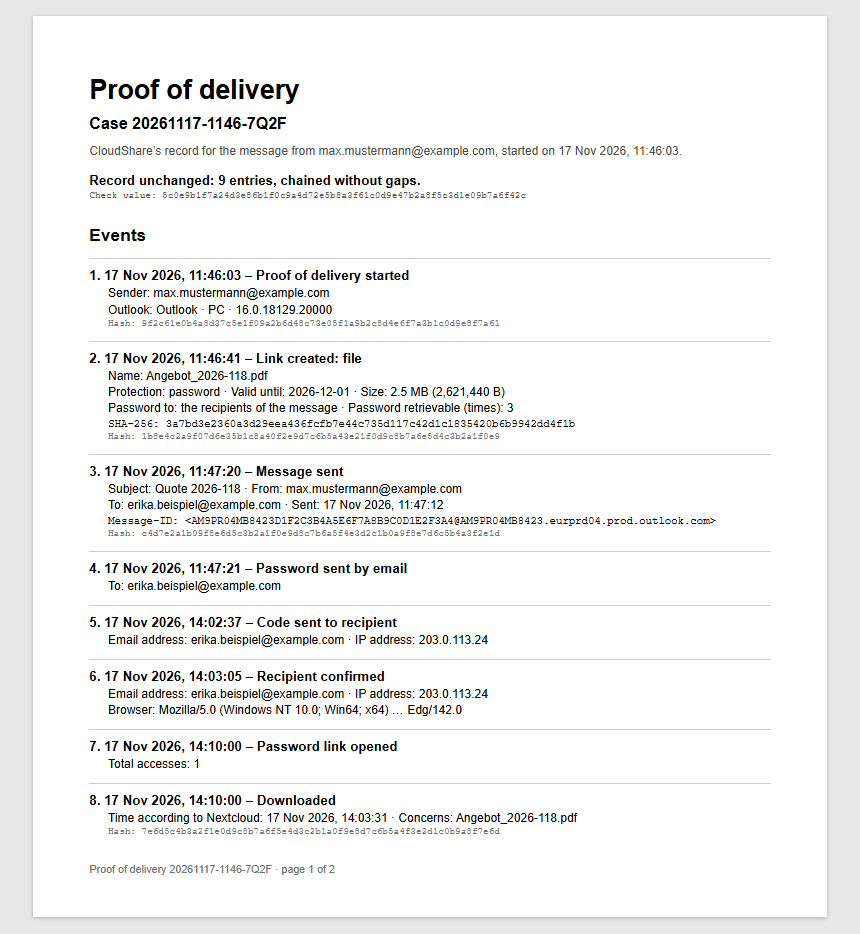
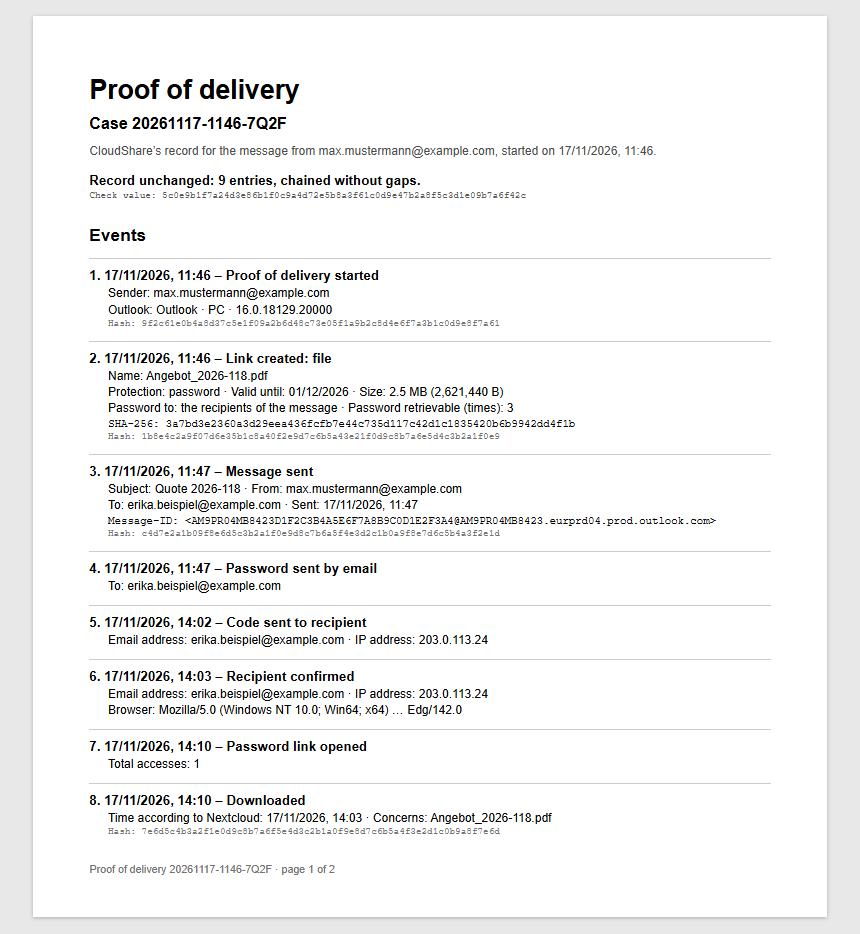
Compact history rows; dates always dd.mm.yyyy, times "HH:MM Uhr"
- "Verlauf": the delivery proof is a small seal after the file name (tracking
  ID in its tooltip, a click opens the PDF) instead of a line and a button;
  the password line names only the way (address and SMS state in the
  tooltip); the download state in one line.
- Every date in pane, cards, mails and PDF as dd.mm.yyyy, every time as
  "HH:MM Uhr" (en: dd/mm/yyyy, HH:MM); the PDF's "valid until" too.

diff --git a/addin/src/taskpane/taskpane.ts b/addin/src/taskpane/taskpane.ts
@@ -1105,7 +1105,9 @@ function settingsProblem(kind: "file" | "request" | "message"): string | null {
   return null;
 }
 
-const formatDate = (isoDate: string) => new Date(isoDate).toLocaleDateString(locale());
+/** Every date in the pane and the cards: day and month with two digits and the full year ("02.12.2026"). */
+const DATE_FORMAT = { day: "2-digit", month: "2-digit", year: "numeric" } as const;
+const formatDate = (when: string | number) => new Date(when).toLocaleDateString(locale(), DATE_FORMAT);
 
 /** Empty paragraph after an inserted card, so the cursor ends up below it (see insertIntoBody). */
 const AFTER_CARD = "<p style=\"margin:0;\"><br></p>";
@@ -1999,6 +2001,16 @@ interface ShareItem {
 }
 
 /** "Kennwort per SMS an +49 170 •••• 78 – zugestellt am 16.11.2026, 14:05" for the "Verlauf" list. */
+/** The way in a few words for the line ("Kennwort per Mail", "Kennwort per SMS – zugestellt"); the rest in the tooltip. */
+function passwordShort(p: NonNullable<ShareItem["password"]>): string {
+  if (p.channel === "mail") return t("shares.passwordMailShort");
+  const status =
+    p.status === "delivered" ? t("shares.smsDelivered")
+    : p.status === "failed" ? t(p.refused ? "shares.smsFailed" : "shares.smsUndelivered")
+    : t("shares.smsSubmitted");
+  return t("shares.passwordSmsShort", { status });
+}
+
 function passwordText(p: NonNullable<ShareItem["password"]>): string {
   if (p.channel === "mail") return t("shares.passwordMail", { to: p.to });
   const status =
@@ -2066,7 +2078,7 @@ async function openSentMail(share: ShareItem) {
 function formatDateTime(when: string | number): string {
   const d = new Date(when);
   return t("shares.dateTime", {
-    date: d.toLocaleDateString(locale(), { day: "2-digit", month: "2-digit", year: "numeric" }),
+    date: d.toLocaleDateString(locale(), DATE_FORMAT),
     time: d.toLocaleTimeString(locale(), { hour: "2-digit", minute: "2-digit" }),
   });
 }
@@ -2106,9 +2118,8 @@ const isValid = (share: ShareItem) => share.expiration === null || share.expirat
 /** Start of a link's period, without the year if it ends in the same year: "15.11." (de) / "15/11" (en-GB). */
 function shortDate(sharedAt: number, expiration: string): string {
   const from = new Date(sharedAt);
-  return from.getFullYear() === Number(expiration.slice(0, 4))
-    ? from.toLocaleDateString(locale(), { day: "2-digit", month: "2-digit" })
-    : from.toLocaleDateString(locale());
+  void expiration; // always with the year now (dd.mm.yyyy)
+  return formatDate(from.getTime());
 }
 
 /** Copies text; the async clipboard API is not available in every Outlook version. */
@@ -2315,12 +2326,10 @@ function shareRow(share: ShareItem): HTMLElement {
     `<button type="button" class="btn btn-subtle btn-icon copy">${ICONS.copy}</button>` +
     `<button type="button" class="btn btn-subtle btn-icon show-password" aria-expanded="false" hidden>${ICONS.password}</button>` +
     `<button type="button" class="btn btn-subtle btn-icon insert">${ICONS.insert}</button>` +
-    `<button type="button" class="btn btn-subtle btn-icon proof" hidden>${ICONS.proof}</button>` +
     `<button type="button" class="btn btn-subtle btn-icon btn-danger revoke">${ICONS.revoke}</button>` +
     `</div></div>` +
     `<div class="share-meta"><span class="share-period"></span> · <span class="share-password"></span></div>` +
     `<div class="share-meta share-unsent" hidden></div>` +
-    `<div class="share-meta share-proof" hidden></div>` +
     `<div class="share-state${state.done ? " done" : ""}">` +
     `<span class="dot-state" aria-hidden="true"></span><span class="state-text"></span></div>` +
     `<div class="password-panel" hidden></div></div>`;
@@ -2331,16 +2340,6 @@ function shareRow(share: ShareItem): HTMLElement {
   label(row.querySelector<HTMLButtonElement>(".copy")!, t("shares.copyLabel"));
   label(row.querySelector<HTMLButtonElement>(".insert")!, t("shares.insertLabel"));
   label(row.querySelector<HTMLButtonElement>(".revoke")!, t("shares.revokeLabel"));
-  // "Zustellnachweis": the tracking ID below the period, and "Nachweis" opens the PDF in the default browser.
-  if (share.proofId) {
-    const proofLine = row.querySelector<HTMLElement>(".share-proof")!;
-    proofLine.textContent = t("shares.proofLine", { id: share.proofId });
-    proofLine.hidden = false;
-    const proofButton = row.querySelector<HTMLButtonElement>(".proof")!;
-    label(proofButton, t("shares.proofLabel", { id: share.proofId }));
-    proofButton.hidden = false;
-    proofButton.addEventListener("click", () => void openProof(share.proofId!, proofButton));
-  }
   // Too long for the line: shortened in the middle ("cloudshare-icon-va…nten.png"), so the extension stays visible.
   const [start, end] = nameParts(share.name);
   const nameStart = document.createElement("span");
@@ -2389,22 +2388,33 @@ function shareRow(share: ShareItem): HTMLElement {
     } else {
       item.textContent = t(`shares.kind.${share.kind}`);
     }
+    // "Zustellnachweis": a small seal after it – the tracking ID in its tooltip, a click opens the PDF ("Nachweis").
+    if (share.proofId) {
+      const seal = document.createElement("button");
+      seal.type = "button";
+      seal.className = "btn btn-subtle btn-icon proof-seal";
+      seal.innerHTML = ICONS.proof;
+      label(seal, t("shares.proofLabel", { id: share.proofId }));
+      seal.addEventListener("click", () => void openProof(share.proofId!, seal));
+      item.append(seal);
+    }
     row.querySelector(".share-head")!.after(item);
   }
 
   // "15.11. – 29.11.2026 · Kennwort per SMS an +49 170 •••• 72 – übermittelt": the word "Kennwort" only once.
   const period = row.querySelector<HTMLElement>(".share-period")!;
-  const sharedOn = new Date(share.sharedAt).toLocaleDateString(locale());
+  const sharedOn = formatDate(share.sharedAt);
   period.textContent = share.expiration
-    ? t("shares.period", { from: shortDate(share.sharedAt, share.expiration), until: formatDate(share.expiration) })
+    ? t("shares.period", { from: shortDate(share.sharedAt, share.expiration), until: formatDate(`${share.expiration}T12:00:00`) })
     : t("shares.since", { from: sharedOn });
   period.title = [t("shares.sharedOn", { date: sharedOn }), share.expiration ? t("shares.validUntil", { date: formatDate(share.expiration) }) : ""]
     .filter(Boolean)
     .join(", ");
   const passwordLine = row.querySelector<HTMLElement>(".share-password")!;
   passwordLine.textContent = share.password
-    ? passwordText(share.password)
+    ? passwordShort(share.password)
     : t(share.protected === false ? "shares.withoutPassword" : "shares.withPassword");
+  passwordLine.title = share.password ? passwordText(share.password) : "";
   passwordLine.classList.toggle("failed", share.password?.status === "failed");
 
   row.querySelector<HTMLElement>(".state-text")!.textContent = state.text;
@@ -2419,7 +2429,7 @@ function shareRow(share: ShareItem): HTMLElement {
     line.textContent = share.downloads?.count
       ? t("shares.unsentDownloaded")
       : share.revokeAt
-        ? t("shares.unsentRevoke", { date: new Date(share.revokeAt).toLocaleDateString(locale()) })
+        ? t("shares.unsentRevoke", { date: formatDate(share.revokeAt) })
         : t("shares.unsent");
     line.hidden = false;
   }

diff --git a/docs/mockups/proof-pdf.html b/docs/mockups/proof-pdf.html
@@ -29,44 +29,44 @@ body { background: #e8e8e8; padding: 16px; }
 <div class="page">
   <div class="t1">Proof of delivery</div>
   <div class="t2">Case 20261117-1146-7Q2F</div>
-  <div class="intro">CloudShare’s record for the message from max.mustermann@example.com, started on 17 Nov 2026, 11:46:03.</div>
+  <div class="intro">CloudShare’s record for the message from max.mustermann@example.com, started on 17/11/2026, 11:46.</div>
   <div class="ok">Record unchanged: 9 entries, chained without gaps.</div>
   <div class="mono grey7">Check value: 5c0e9b1f7a24d3e86b1f0c9a4d72e5b8a3f61c0d9e47b2a8f5c3d1e09b7a6f42c</div>
 
   <div class="h">Events</div>
-  <div class="ev">1. 17 Nov 2026, 11:46:03 – Proof of delivery started</div>
+  <div class="ev">1. 17/11/2026, 11:46 – Proof of delivery started</div>
   <div class="d">Sender: max.mustermann@example.com</div>
   <div class="d">Outlook: Outlook · PC · 16.0.18129.20000</div>
   <div class="mono hash">Hash: 9f2c61e0b4a8d37c5e1f09a2b6d48c73e05f1a9b2c8d4e6f7a3b1c0d9e8f7a61</div>
 
-  <div class="ev">2. 17 Nov 2026, 11:46:41 – Link created: file</div>
+  <div class="ev">2. 17/11/2026, 11:46 – Link created: file</div>
   <div class="d">Name: Angebot_2026-118.pdf</div>
-  <div class="d">Protection: password · Valid until: 2026-12-01 · Size: 2.5 MB (2,621,440 B)</div>
+  <div class="d">Protection: password · Valid until: 01/12/2026 · Size: 2.5 MB (2,621,440 B)</div>
   <div class="d">Password to: the recipients of the message · Password retrievable (times): 3</div>
   <div class="mono m">SHA-256: 3a7bd3e2360a3d29eea436fcfb7e44c735d117c42d1c1835420b6b9942dd4f1b</div>
   <div class="mono hash">Hash: 1b8e4c2a9f07d6e35b1c8a40f2e9d7c6b5a43e21f0d9c8b7a6e5d4c3b2a1f0e9</div>
 
-  <div class="ev">3. 17 Nov 2026, 11:47:20 – Message sent</div>
+  <div class="ev">3. 17/11/2026, 11:47 – Message sent</div>
   <div class="d">Subject: Quote 2026-118 · From: max.mustermann@example.com</div>
-  <div class="d">To: erika.beispiel@example.com · Sent: 17 Nov 2026, 11:47:12</div>
+  <div class="d">To: erika.beispiel@example.com · Sent: 17/11/2026, 11:47</div>
   <div class="mono m">Message-ID: &lt;AM9PR04MB8423D1F2C3B4A5E6F7A8B9C0D1E2F3A4@AM9PR04MB8423.eurprd04.prod.outlook.com&gt;</div>
   <div class="mono hash">Hash: c4d7e2a1b09f8e6d5c3b2a1f0e9d8c7b6a5f4e3d2c1b0a9f8e7d6c5b4a3f2e1d</div>
 
-  <div class="ev">4. 17 Nov 2026, 11:47:21 – Password sent by email</div>
+  <div class="ev">4. 17/11/2026, 11:47 – Password sent by email</div>
   <div class="d">To: erika.beispiel@example.com</div>
 
-  <div class="ev">5. 17 Nov 2026, 14:02:37 – Code sent to recipient</div>
+  <div class="ev">5. 17/11/2026, 14:02 – Code sent to recipient</div>
   <div class="d">Email address: erika.beispiel@example.com · IP address: 203.0.113.24</div>
 
-  <div class="ev">6. 17 Nov 2026, 14:03:05 – Recipient confirmed</div>
+  <div class="ev">6. 17/11/2026, 14:03 – Recipient confirmed</div>
   <div class="d">Email address: erika.beispiel@example.com · IP address: 203.0.113.24</div>
   <div class="d">Browser: Mozilla/5.0 (Windows NT 10.0; Win64; x64) … Edg/142.0</div>
 
-  <div class="ev">7. 17 Nov 2026, 14:10:00 – Password link opened</div>
+  <div class="ev">7. 17/11/2026, 14:10 – Password link opened</div>
   <div class="d">Total accesses: 1</div>
 
-  <div class="ev">8. 17 Nov 2026, 14:10:00 – Downloaded</div>
-  <div class="d">Time according to Nextcloud: 17 Nov 2026, 14:03:31 · Concerns: Angebot_2026-118.pdf</div>
+  <div class="ev">8. 17/11/2026, 14:10 – Downloaded</div>
+  <div class="d">Time according to Nextcloud: 17/11/2026, 14:03 · Concerns: Angebot_2026-118.pdf</div>
   <div class="mono hash">Hash: 7e6d5c4b3a2f1e0d9c8b7a6f5e4d3c2b1a0f9e8d7c6b5a4f3e2d1c0b9a8f7e6d</div>
 
   <div class="foot">Proof of delivery 20261117-1146-7Q2F · page 1 of 2</div>

diff --git a/addin/e2e/taskpane.e2e.ts b/addin/e2e/taskpane.e2e.ts
@@ -1335,15 +1335,17 @@ test("Verlauf: shows the state of each link and revokes after confirmation", asy
   await page.click("#tab-send");
   await expect(refresh).toBeHidden();
   await page.click("#tab-shares");
-  await expect(rows.nth(0).locator(".state-text")).toHaveText("2× heruntergeladen, zuletzt 11.11.2026, 10:30 Uhr"); // with the year
+  await expect(rows.nth(0).locator(".state-text")).toHaveText("2× heruntergeladen · 11.11.2026, 10:30 Uhr");
   await expect(rows.nth(1).locator(".state-text")).toHaveText("Noch nicht heruntergeladen");
   await expect(rows.nth(2).locator(".state-text")).toHaveText("3 Dateien empfangen");
   // One short line: period and password – the word "Kennwort" only once.
   const meta = rows.nth(0).locator(".share-meta").first();
   await expect(meta.locator(".share-period")).toHaveText("10.11.2026 – 24.11.2099");
-  await expect(meta.locator(".share-password")).toContainText("Kennwort per SMS an +49 170 •••• 67 – zugestellt am 10.11.2026, 11:00 Uhr");
+  // The way in a few words; number and time of the delivery in the tooltip.
+  await expect(meta.locator(".share-password")).toHaveText("Kennwort per SMS – zugestellt");
+  await expect(meta.locator(".share-password")).toHaveAttribute("title", "Kennwort per SMS an +49 170 •••• 67 – zugestellt am 10.11.2026, 11:00 Uhr");
   expect((await meta.textContent())!.match(/Kennwort/g)).toHaveLength(1);
-  await expect(rows.nth(1).locator(".share-period")).toHaveText("12.11. – 26.11.2099"); // same year: no year at the start
+  await expect(rows.nth(1).locator(".share-period")).toHaveText("12.11.2099 – 26.11.2099"); // always dd.mm.yyyy
   await expect(rows.nth(1).locator(".share-password")).toHaveText("ohne Kennwort");
   await expect(rows.nth(2).locator(".share-password")).toHaveText("mit Kennwort");
   // Icons instead of words; the words are the buttons' names.
@@ -1416,9 +1418,9 @@ test("Verlauf: a failed SMS says whether it was sent at all, and how to send the
   await page.click("#tab-shares");
   const rows = page.locator("#shares .share");
   // seven.io refused it right away (key, credit, limit).
-  await expect(rows.nth(0).locator(".share-password")).toHaveText("Kennwort per SMS an +49 170 •••• 67 – nicht versendet – bitte erneut senden");
+  await expect(rows.nth(0).locator(".share-password")).toHaveText("Kennwort per SMS – nicht versendet – bitte erneut senden");
   // seven.io accepted it and reported "not delivered" later.
-  await expect(rows.nth(1).locator(".share-password")).toHaveText("Kennwort per SMS an +49 170 •••• 67 – nicht zugestellt – bitte erneut senden");
+  await expect(rows.nth(1).locator(".share-password")).toHaveText("Kennwort per SMS – nicht zugestellt – bitte erneut senden");
   await expect(rows.nth(1).locator(".share-password")).toHaveClass(/failed/);
 });
 

diff --git a/server/src/notices.ts b/server/src/notices.ts
@@ -15,7 +15,7 @@ import type { FastifyBaseLogger } from "fastify";
 import { appGraphToken, HttpError } from "./auth.js";
 import { config } from "./config.js";
 import { getCredentials, removeCredentials } from "./credentials.js";
-import { inSenderLanguage, locale, t } from "./i18n.js";
+import { formatDate, formatDateTime, inSenderLanguage, t } from "./i18n.js";
 import { sendMailAsApp } from "./graph.js";
 import { NextcloudClient, NOT_CONNECTED } from "./nextcloud.js";
 import { PersistentMap } from "./db.js";
@@ -72,15 +72,9 @@ export async function registerNotices(entries: Array<[string, Notice]>): Promise
 export const pendingNotices = () => [...notices.entries()];
 
 const tokenOf = (url: string) => url.replace(/\/+$/, "").split("/").pop() ?? "";
-const formatDay = (iso: string) => new Date(`${iso}T12:00:00Z`).toLocaleDateString(locale(), { timeZone: config.timeZone });
-/** "16.11.2026, 00:42 Uhr" / "16 Nov 2026, 00:42" – the wording from "mail.dateTime". */
-const formatTime = (iso: string) => {
-  const d = new Date(iso);
-  return t("mail.dateTime", {
-    date: d.toLocaleDateString(locale(), { timeZone: config.timeZone, dateStyle: "medium" }),
-    time: d.toLocaleTimeString(locale(), { timeZone: config.timeZone, timeStyle: "short" }),
-  });
-};
+const formatDay = (iso: string) => formatDate(Date.parse(`${iso}T12:00:00Z`));
+/** "16.11.2026, 00:42 Uhr" / "16/11/2026, 00:42" – the wording from "mail.dateTime". */
+const formatTime = (iso: string) => formatDateTime(Date.parse(iso));
 
 /** One pass (exported for tests; normally driven by startNotices). */
 export async function runNotices(log: Pick<FastifyBaseLogger, "info" | "warn">, now = Date.now()) {

diff --git a/server/src/proofPdf.ts b/server/src/proofPdf.ts
@@ -3,12 +3,11 @@
  * date and time and its hash, and whether the chain is intact. In the language of the sender's add-in.
  */
 import { config } from "./config.js";
-import { inSenderLanguage, locale, t } from "./i18n.js";
+import { formatDate, formatDateTime, inSenderLanguage, locale, t } from "./i18n.js";
 import { pdfDocument, type PdfLine } from "./pdf.js";
 import { verifyCase, type ProofCase, type ProofEvent } from "./proof.js";
 
-const time = (ms: number) =>
-  new Date(ms).toLocaleString(locale(), { timeZone: config.timeZone, dateStyle: "medium", timeStyle: "medium" });
+const time = (ms: number) => formatDateTime(ms);
 
 const isoTime = (iso: unknown) => (typeof iso === "string" && Number.isFinite(Date.parse(iso)) ? time(Date.parse(iso)) : "");
 
@@ -50,7 +49,7 @@ function describe(e: ProofEvent, c: ProofCase): { label: string; details: Array<
       const details: Array<[string, string]> = [
         [t("mail.proof.field.name"), text(d.name)],
         [t("mail.proof.field.protection"), t(d.protection === "none" ? "mail.proof.protection.none" : "mail.proof.protection.password")],
-        [t("mail.proof.field.expires"), text(d.expireDate)],
+        [t("mail.proof.field.expires"), typeof d.expireDate === "string" ? formatDate(Date.parse(`${d.expireDate}T12:00:00Z`)) : ""],
       ];
       if (typeof d.size === "number") details.push([t("mail.proof.field.size"), size(d.size)]);
       if (Array.isArray(d.passwordWays) && d.passwordWays.length) details.push([t("mail.proof.field.passwordWays"), d.passwordWays.map(way).join(", ")]);

diff --git a/server/src/proofMail.ts b/server/src/proofMail.ts
@@ -8,9 +8,8 @@
  *   locked   – the gateway refused code requests for a while: too many addresses that are no recipients (proofGateway.ts).
  */
 import { appGraphToken } from "./auth.js";
-import { config } from "./config.js";
 import { sendMailAsApp } from "./graph.js";
-import { inSenderLanguage, locale, t } from "./i18n.js";
+import { formatDateTime, inSenderLanguage, t } from "./i18n.js";
 import { mailDocument, paragraph } from "./mailLayout.js";
 import { addEvent, type ProofCase } from "./proof.js";
 import { proofPdf } from "./proofPdf.js";
@@ -19,8 +18,7 @@ import { proofPdf } from "./proofPdf.js";
 export const caseSubject = (c: ProofCase) =>
   String([...c.events].reverse().find((e) => e.type === "message.sent")?.data.subject ?? "");
 
-const time = (ms: number) =>
-  new Date(ms).toLocaleString(locale(), { timeZone: config.timeZone, dateStyle: "medium", timeStyle: "short" });
+const time = (ms: number) => formatDateTime(ms);
 
 /** The PDF as an attachment ("Zustellnachweis-20261117-1146-7Q2F.pdf"). */
 const pdfAttachment = (c: ProofCase) => ({

diff --git a/server/src/i18n.ts b/server/src/i18n.ts
@@ -211,7 +211,15 @@ export const locale = () => {
 };
 
 /** Date in the language's format and the configured time zone ("19.11.2026"). */
-export const formatDate = (ms: number) => new Date(ms).toLocaleDateString(locale(), { timeZone: config.timeZone });
+export const formatDate = (ms: number) =>
+  new Date(ms).toLocaleDateString(locale(), { timeZone: config.timeZone, day: "2-digit", month: "2-digit", year: "numeric" });
+
+/** Date and time ("18.11.2026, 15:58 Uhr" – the wording of "mail.dateTime") in the configured time zone. */
+export const formatDateTime = (ms: number) =>
+  t("mail.dateTime", {
+    date: formatDate(ms),
+    time: new Date(ms).toLocaleTimeString(locale(), { timeZone: config.timeZone, hour: "2-digit", minute: "2-digit" }),
+  });
 
 /** Picks the plural form for `count`, then fills {name} placeholders (unknown ones stay visible). */
 export function format(texts: Section, key: string, vars: Record<string, string | number> = {}): string {

diff --git a/addin/src/taskpane/taskpane.css b/addin/src/taskpane/taskpane.css
@@ -498,6 +498,9 @@ button.share-title:hover { color: var(--brand-fg); text-decoration: underline; t
 button.share-title:focus-visible { outline: 2px solid var(--focus); outline-offset: 1px; border-radius: 2px; }
 .share-item { display: flex; align-items: center; min-width: 0; margin: 2px 0; font-size: 13px; line-height: 18px; color: var(--fg2); }
 .share-item .share-name { font-weight: 400; flex: 0 1 auto; }
+/* "Zustellnachweis": a small seal after the file name – a click opens the PDF, the tracking ID is in its tooltip. */
+.share-item .proof-seal { flex: none; width: 22px; height: 22px; min-width: 0; padding: 1px; margin-left: 4px; color: var(--fg2); }
+.share-item .proof-seal .icon { width: 16px; height: 16px; }
 .share-meta { font-size: 12px; line-height: 16px; color: var(--fg3); }
 .share-password.failed { color: var(--danger-fg); }
 .share-unsent { color: var(--fg2); font-weight: 600; }

diff --git a/CLAUDE.md b/CLAUDE.md
@@ -23,7 +23,7 @@ One container serves everything behind Caddy:
 - Nextcloud does not accept Entra tokens (typically it logs in via another IdP, e.g. Keycloak through `user_oidc`). Instead each user connects once via Nextcloud Login Flow v2; the resulting app password is stored encrypted per Entra `oid` in the database (`credentials.ts`, store `credentials`, key `CREDENTIAL_KEY`) and used as Basic auth. A 401 from Nextcloud deletes the stored credential and returns error code `NEXTCLOUD_NOT_CONNECTED`, which makes the taskpane show the connect view.
 - Nextcloud access is server-to-server (no CORS on Nextcloud): WebDAV chunked upload v2 + OCS share API (`nextcloud.ts`). Nextcloud-reported URLs are rewritten onto `NEXTCLOUD_URL`. Vaultwarden Sends are created through `bw serve` running in the same container on 127.0.0.1:8087 with a service account (`vaultwarden.ts`). Upload/job/pending-login state is in-memory (`store.ts`) → single instance only.
 - `addin/` – XML manifest + taskpane (Nextcloud connect/disconnect, converts existing attachments via `getAttachmentContentAsync` → upload → `removeAttachmentAsync`, plus file picker (`window.showOpenFilePicker` first, hidden `<input type="file">` as fallback – classic Outlook's WebView did not reliably open the dialog for a file input; steps are traced with `CLIENT_TRACE`) and drag & drop onto the "Senden" tab for files beyond Outlook's limit – in classic Outlook the WebView2 file dialog sometimes opens behind the Outlook window; inserts links) + event handlers in `commands.ts`: `OnMessageAttachmentsChanged` shows an InsightMessage with a "open taskpane" action (add-ins cannot open the taskpane themselves), `OnMessageRecipientsChanged` runs the same check (the size depends on the recipients: `ATTACHMENT_THRESHOLD_MB` as soon as one is outside `INTERNAL_DOMAINS` – default the user's own domain –, else `ATTACHMENT_THRESHOLD_INTERNAL_MB` and `ATTACHMENT_POLICY_INTERNAL`, also without recipients; `attachmentRule` in `shared/office.ts`, 0 = every attachment, no "Groß" badge, texts without a size), `OnMessageSend` runs with manifest `SendMode="SoftBlock"`; env `ATTACHMENT_POLICY` (served via `/api/config`, cached in `roamingSettings`) decides: `enforce` blocks large attachments before arming the password mail (no "Send anyway"), `suggest` arms the password mail first and relaxes to PromptUser via `sendModeOverride` (Mailbox 1.14). The taskpane mimics Outlook (Fluent 2 tokens, Office theme, Outlook wording "Nachricht"/"Kennwort") – keep new UI consistent with that. The message bar stays in sight at the top while the pane scrolls (`position: sticky`). Messages run down (`SUCCESS_MESSAGE_SECONDS`, default 5: a ring around the tick, "!" or "i" empties clockwise, paused on hover/focus, `setStatus`); progress (kind `progress`) and messages with "Erneut versuchen" stay. Bundled as IIFE because classic Outlook runs the handlers in a JavaScript-only runtime (no DOM, no ES modules); `commands.js` is built with target `es2016` and without `Headers`/`Promise.finally` (guarded by `addin/test/bundle.test.ts`); it registers its handlers immediately (classic) and again in `Office.onReady` (browser runtime: office.js loads `Office.actions` only after the script ran – `commands-load.test.ts`), and that runtime only allows SSO and fetch because the server serves `/.well-known/microsoft-officeaddins-allowed.json` listing `commands.js`.
-- Taskpane has two tabs: "Senden" and "Verlauf" (`/api/shares`: all valid links, loaded with the tab, on focus and by `#refresh-shares` in the tab bar (only on the link tabs); one quiet bottom bar `.account-bar` under every tab, the help and the settings (one line: the account as a menu button `#account-toggle` like Outlook's profile menu – `#account-menu` opens above it with icon entries "Nextcloud öffnen" `#nextcloud-open` (NEXTCLOUD_URL from `/api/config` in the default browser, `openBrowserWindow`), "Einstellungen" `#settings-open`, "Hilfe" `#help-toggle` and "Verbindung trennen" `#disconnect` (two clicks like "Zurückziehen": `armDisconnect`), closes on Escape or a click elsewhere; its head `.account-menu-head` shows the whole name `#account-menu-name` and the storage `#account-storage` with a bar `#storage-meter` (used share of the quota, red from 90 %) – nothing else in the bar; fixed height `--bar-height`, the "Senden" footer sticks above it; variants are shown to the user before UI changes like this); one entry per link or confidential message: title = subject of its sent mail (`history.ts`, store `sent-mails`, Graph ID with `Prefer: IdType="ImmutableId"`; a click opens the mail via `openSentMail`: `GET /api/shares/:id/mail` translates the stored immutable ID into the current EWS ID with Graph `translateExchangeIds`, then `displayMessageFormAsync` – own mailbox only), below it plain text (file name, "Dateianforderung", "Vertrauliche Nachricht"), the kind as the symbol on the left (document, upload arrow, envelope with lock – no labels or coloured badges) (before sending: the draft's subject, sent with every link request as `subject`, `recordDraftSubject`; a subject typed later follows via `PATCH /api/jobs/:id` from the 4-second check `syncDraftSubject`; unsent without subject "(Noch kein Betreff)", older entries "(Betreff unbekannt)"), icon buttons Kopieren/Kennwort/Einfügen/Zurückziehen next to the title (messages: store `messages`, token `msg-<Send ID>`, only Kennwort and Zurückziehen – CloudShare never keeps their key) (long names shortened in the middle, extension kept – `nameParts`) (`ICONS` in `taskpane.ts`, also filled into the help via `data-icon`) and one meta line "period · password"; revoke via `DELETE /api/shares/:id`, `revokeShare` in `shares.ts`; links are created on insert, so links whose job has not been dispatched are marked `unsent` – a job that expires without ever being armed (draft discarded, `armedOnce: false`) gets its links revoked by the watcher via `onUnsentExpired`/`revokeUnsentLinks`); "Hilfe" in the account menu (`#help-toggle`, `showHelp`) shows the guide in place of the current tab – a user guide for everyday users, `<details>` sections with texts `help.*` in the language files (keep it in plain words and in step with the UI when features change). "Senden" starts with a switch (`kind` radios, `selectKind`/`renderKind` in `taskpane.ts`) between "Dateien" (attachments + drop zone), "Nachricht" ("Vertrauliche Nachricht" via `/api/messages` = a Vaultwarden text Send protected with the step password, never stored in Nextcloud) and "Anfordern" (upload link via `/api/requests`); only the chosen part is shown and the single footer button `#submit` names what it inserts (`renderSubmit`). Below: password; the block "Empfänger", always in sight – "Kennwort an" (`<select>`), "Sprache" (`#recipient-language`) and for files the switch "Zustellnachweis" (`#proof`, `role="switch"`), label and control in one row (`.inline-row`); and "Gültigkeit" collapsed behind a one-line summary of the times (`renderValidity`). "Ohne Kennwort" is only offered for "Dateien" – prevent invalid choices in the UI rather than reporting them after the click. Read mode: the manifest also has a pinnable `MessageReadCommandSurface` button (plus legacy `ItemRead` form) opening `taskpane.html?view=read` (`readMode`, `startReadView`) – tabs "Nachricht" (`#tab-mail`/`#panel-mail`: the shares whose token (`/s/<token>`) appears in the read mail's body, `mailTokens`; selected again on `ItemChanged`, in place of "Senden") and "Verlauf" (all valid links, as when writing); no server-side mail↔share mapping, no new permissions. A manifest change needs a new `<Version>`. Links are inserted as an email-safe HTML card (`addin/src/taskpane/mailCard.ts`, tables + inline styles, no signature – the sender's signature goes into the password mail, see below).
+- Taskpane has two tabs: "Senden" and "Verlauf" (`/api/shares`: all valid links, loaded with the tab, on focus and by `#refresh-shares` in the tab bar (only on the link tabs); one quiet bottom bar `.account-bar` under every tab, the help and the settings (one line: the account as a menu button `#account-toggle` like Outlook's profile menu – `#account-menu` opens above it with icon entries "Nextcloud öffnen" `#nextcloud-open` (NEXTCLOUD_URL from `/api/config` in the default browser, `openBrowserWindow`), "Einstellungen" `#settings-open`, "Hilfe" `#help-toggle` and "Verbindung trennen" `#disconnect` (two clicks like "Zurückziehen": `armDisconnect`), closes on Escape or a click elsewhere; its head `.account-menu-head` shows the whole name `#account-menu-name` and the storage `#account-storage` with a bar `#storage-meter` (used share of the quota, red from 90 %) – nothing else in the bar; fixed height `--bar-height`, the "Senden" footer sticks above it; variants are shown to the user before UI changes like this); one entry per link or confidential message: title = subject of its sent mail (`history.ts`, store `sent-mails`, Graph ID with `Prefer: IdType="ImmutableId"`; a click opens the mail via `openSentMail`: `GET /api/shares/:id/mail` translates the stored immutable ID into the current EWS ID with Graph `translateExchangeIds`, then `displayMessageFormAsync` – own mailbox only), below it plain text (file name, "Dateianforderung", "Vertrauliche Nachricht"), the kind as the symbol on the left (document, upload arrow, envelope with lock – no labels or coloured badges) (before sending: the draft's subject, sent with every link request as `subject`, `recordDraftSubject`; a subject typed later follows via `PATCH /api/jobs/:id` from the 4-second check `syncDraftSubject`; unsent without subject "(Noch kein Betreff)", older entries "(Betreff unbekannt)"), icon buttons Kopieren/Kennwort/Einfügen/Zurückziehen next to the title (messages: store `messages`, token `msg-<Send ID>`, only Kennwort and Zurückziehen – CloudShare never keeps their key) (long names shortened in the middle, extension kept – `nameParts`) (`ICONS` in `taskpane.ts`, also filled into the help via `data-icon`) and one meta line "period · password" (short: "Kennwort per Mail", the address and SMS state in its tooltip; dates always dd.mm.yyyy, times "HH:MM Uhr"; a delivery proof is a small seal `.proof-seal` after the file name that opens its PDF); revoke via `DELETE /api/shares/:id`, `revokeShare` in `shares.ts`; links are created on insert, so links whose job has not been dispatched are marked `unsent` – a job that expires without ever being armed (draft discarded, `armedOnce: false`) gets its links revoked by the watcher via `onUnsentExpired`/`revokeUnsentLinks`); "Hilfe" in the account menu (`#help-toggle`, `showHelp`) shows the guide in place of the current tab – a user guide for everyday users, `<details>` sections with texts `help.*` in the language files (keep it in plain words and in step with the UI when features change). "Senden" starts with a switch (`kind` radios, `selectKind`/`renderKind` in `taskpane.ts`) between "Dateien" (attachments + drop zone), "Nachricht" ("Vertrauliche Nachricht" via `/api/messages` = a Vaultwarden text Send protected with the step password, never stored in Nextcloud) and "Anfordern" (upload link via `/api/requests`); only the chosen part is shown and the single footer button `#submit` names what it inserts (`renderSubmit`). Below: password; the block "Empfänger", always in sight – "Kennwort an" (`<select>`), "Sprache" (`#recipient-language`) and for files the switch "Zustellnachweis" (`#proof`, `role="switch"`), label and control in one row (`.inline-row`); and "Gültigkeit" collapsed behind a one-line summary of the times (`renderValidity`). "Ohne Kennwort" is only offered for "Dateien" – prevent invalid choices in the UI rather than reporting them after the click. Read mode: the manifest also has a pinnable `MessageReadCommandSurface` button (plus legacy `ItemRead` form) opening `taskpane.html?view=read` (`readMode`, `startReadView`) – tabs "Nachricht" (`#tab-mail`/`#panel-mail`: the shares whose token (`/s/<token>`) appears in the read mail's body, `mailTokens`; selected again on `ItemChanged`, in place of "Senden") and "Verlauf" (all valid links, as when writing); no server-side mail↔share mapping, no new permissions. A manifest change needs a new `<Version>`. Links are inserted as an email-safe HTML card (`addin/src/taskpane/mailCard.ts`, tables + inline styles, no signature – the sender's signature goes into the password mail, see below).
 - Personal settings ("Einstellungen" `#settings-open` in the account menu of the bottom bar, `#panel-settings` shown in place of the tab like the help – `showOverlay`): add-in `settings.ts` (form, `loadSettings`, `userSettings`), server `settings.ts` (store `settings`, `retention: false`, only changed fields; `settingsFor` = `config.userDefaults` from `DEFAULT_*` + stored + `availableSettings`), `/api/settings` GET/PUT/DELETE. Covers the offered password ways and the preselected one (`applyChannelChoices`, keeps the way a mail already uses), the notices (checked in `attachNoticeJob`, `runNotices`, `noteUndeliveredSms`; only where the server switch is on), the add-in language (`auto` or a code, also in `roamingSettings` `cloudshare-settings` → `preferredLanguage` in `i18n.ts`; reload once when it differs) and the signature of the password mails (`server/src/signature.ts`, `signatureHtml`: own text or else `MAIL_FOOTER`, plain text only – deliberately no formatted/HTML signature; empty line = paragraph (`signatureParagraphs`), profile placeholders via `fillTemplate`, escaped, each paragraph a `<p>` in `TEXT_STYLE` like "Guten Tag"; fixed in `PasswordJob.signature` when arming, built anew for "send again"). The link card carries no signature. SMS rules and server switches are never user settings. Keep the help section `help.settings.*` in step.
 - Per-draft state lives in `item.sessionData` (`DraftState` in `shared/office.ts`: `jobId`, `password`, `noPassword`, `maxAccess`, `passwordTo` = other password recipient (job field, only that address gets the password mail), `separate` = one password and password mail per "Als Link einfügen" step (`step` ID per click, `PasswordJob.separate`), `lastStep` = ID and password of the last step with a password – after it "Gleiches Kennwort wie zuvor" (`#mode-same`) is preselected and the next click reuses that step (`stepForClick`, joins the part on the server: one password, one password mail/SMS for files, message and upload link), `links` = share tokens of inserted links; if none of them is left in the body, `releaseDraftIfLinksGone` drops job/password/tag – taskpane on focus and every 4 s while locked, send handler before arming; drafts without `links` are never released). All files of one mail share one password, one Vaultwarden Send and one password mail (or, with "Ohne Kennwort" – file links only, `noPassword: true` on `/complete` – no password, no Send; with `DOWNLOAD_NOTICE` a job without password (`PasswordJob.noPassword`, `noticeShares`) only waits for the sent mail to register the download confirmation; `DraftState.noPassword` + `jobId`). With "per SMS" the pane hides "Kennwort abrufbar"/"Kennwort-Link gültig für" and SMS steps get Sends with `SEND_MAX_EXPIRE_DAYS`; the backend appends to an existing job via `jobId` on `/complete` unless it was already dispatched. The password mail is sent only after the mail was really sent: the taskpane tags the draft with the Office.js custom property `cloudshareJob` (MAPI `cecp-<add-in ID>`, `ADDIN_ID` env must match the manifest `<Id>`), the send handler only arms the job (`/api/jobs/:id/arm`, stores a Graph token with Mail.Read(.Shared) + Mail.Send(.Shared); the handler passes a "From" that differs from the user so shared-mailbox "Sent Items" are searched too and the password mail uses the same sender), and `server/src/jobs.ts` polls "Sent Items" and then mails the actual recipients. Password channel per insertion (each link request carries `passwordTo`/`passwordSms`, `deliveryFrom`; a step collects the ways of its links in `SeparatePart.deliveries` and sends each once – `partDeliveries`, `sentWays`; older steps fall back to the job's one way set by `PATCH`/`/arm`): recipients, `passwordTo` or `passwordSms` (seven.io, `sms.ts`, after sending, password read from the Send, webhook `/webhooks/seven`, status in `deliveries.ts`; `SMS_ALLOWED_COUNTRIES` limits the countries by calling code (`countries.ts` reads ISO codes, calling codes, German/English names and groups), `SMS_ALLOWED_NUMBERS`/`SMS_BLOCKED_NUMBERS` are regular expressions on the E.164 number (default blocks 0800/0900/0180; landlines allowed) – `smsNumberProblem` in `sms.ts` and `taskpane.ts`, the pane refuses such numbers while they are entered, the server on `PATCH`/resend and before every SMS; a failed SMS never falls back to another channel – the sender gets a note without password, `smsProblemMailHtml`; a refused SMS right away with the armed token, one reported later as not delivered only with `SMS_NOTICE` (app token; unset it follows `DOWNLOAD_NOTICE`, `envFlag` in `config.ts`)). Sends have two dates: recipients' access ("Kennwort-Link gültig für") and deletion = link expiry, so links with password last at most 30 days (Vaultwarden limit, `passwordLinkMaxDays`); `passwordRefs.ts` stores only the Send ID per sent step so the owner can see and resend the password ("Kennwort" in "Verlauf", `/api/shares/:id/password[/send]`) until the links expire – CloudShare never stores passwords itself; optional `templates.json` (`templates.ts`, user → department → default) and download confirmation (`notices.ts`, app permission `Mail.Send`, `DOWNLOAD_NOTICE`) and upload notification (same module, `UPLOAD_NOTICE`: upload links are `StepShare.request` with `knownFiles`, registered as `kind: "upload"`, each pass mails the new files of the folder until the link expires); every mail CloudShare sends itself (password mail, download confirmation, SMS notes) uses `mailLayout.ts` – text, one card with an accent per kind (blue password, green downloaded, red problem), the line `mail.automatic`; keep new mails in that layout. All persistent state (jobs, password entries, deliveries, notices, the cleanup list of uploaded files – `cleanup.ts`, `CLEANUP_AFTER_DAYS`, deletes upload folders after link expiry – and the Nextcloud connections) lives in one SQLite database `/data/cloudshare.db` (`db.ts`, Node 24 built-in `node:sqlite`): one table `entries (store, key, data)`, every row sealed AES-GCM with `CREDENTIAL_KEY` (`storage.ts`); each module keeps a `PersistentMap` in memory – `set`/`delete` write their row, an entry changed in place needs `map.save(key)`; a daily pass deletes rows not written for `DATA_RETENTION_DAYS` (default 365, `startRetention`), except maps created with `retention: false` (connections, cleanup list). No upload size cap except the user's Nextcloud quota (checked up front via OCS `cloud/user`, 507 → `NEXTCLOUD_QUOTA_EXCEEDED`).
 - Sensitivity labels (`docs/architecture.md` 2.13): `addin/src/taskpane/labels.ts` reads the Purview label (names and priority from `GET /api/labels` – Graph with the optional delegated `InformationProtectionPolicy.Read` –, else Outlook's catalog) from the shared file itself (OOXML `docMetadata/LabelInfo.xml` or `docProps/custom.xml`, compound files incl. encrypted Office files via the unencrypted `LabelInfo` stream, PDF XMP, `.pfile` = protected), shown under the file name in the list; after inserting, the mail gets the highest label of its files via `item.sensitivityLabel` (catalog order = rank, never lowered; `LABEL_POLICY` inherit/suggest/off), encrypted files get a note below the file list and need its box ticked (`LABEL_ENCRYPTED` warn/block/allow). Tests use example label IDs only.

diff --git a/README.md b/README.md
@@ -406,7 +406,7 @@ default, offered for "Files" only (not for a confidential message or an upload l
   the address the mail went to and gets a six-digit code from the sender's mailbox; with it the browser goes on to
   Nextcloud (the password is still needed). Address, time, IP address and browser are recorded. Only addresses the
   mail went to get a code – **a distribution list does not work**, recipients use their own address from the mail.
-- **PDF**: "Proof" (document with a seal) in "History" opens it in the default browser – brought up to date right
+- **PDF**: the small seal next to the file name in "History" (the tracking ID in its tooltip) opens it in the default browser – brought up to date right
   before (downloads are otherwise collected every 10 minutes). The sender also gets it **by mail**: after the first
   download (this mail replaces the plain download confirmation for such links) and once more, complete, when all links
   expired or were revoked. Downloads come from Nextcloud's activity – the Activity app must be enabled.

diff --git a/docs/architecture.md b/docs/architecture.md
@@ -468,7 +468,7 @@ offered with `DELIVERY_PROOF`, which follows `DOWNLOAD_NOTICE` when unset – it
   requests for an hour (same answer, nothing sent; `gateway.locked`) and mail the sender the attempts once
   (`sendLockNotice`). In memory, like the codes.
 - **PDF** (`proofPdf.ts`, `pdf.ts` – a small writer of its own, no dependency, standard fonts in WinAnsi):
-  "Nachweis" in "Verlauf" asks `POST /api/proofs/:id/link` for an address signed with a key derived from
+  the seal next to the file name in "Verlauf" (`.proof-seal`) asks `POST /api/proofs/:id/link` for an address signed with a key derived from
   `CREDENTIAL_KEY` and valid five minutes, and opens it in the default browser (`openBrowserWindow`) – the language
   of the add-in.
 
